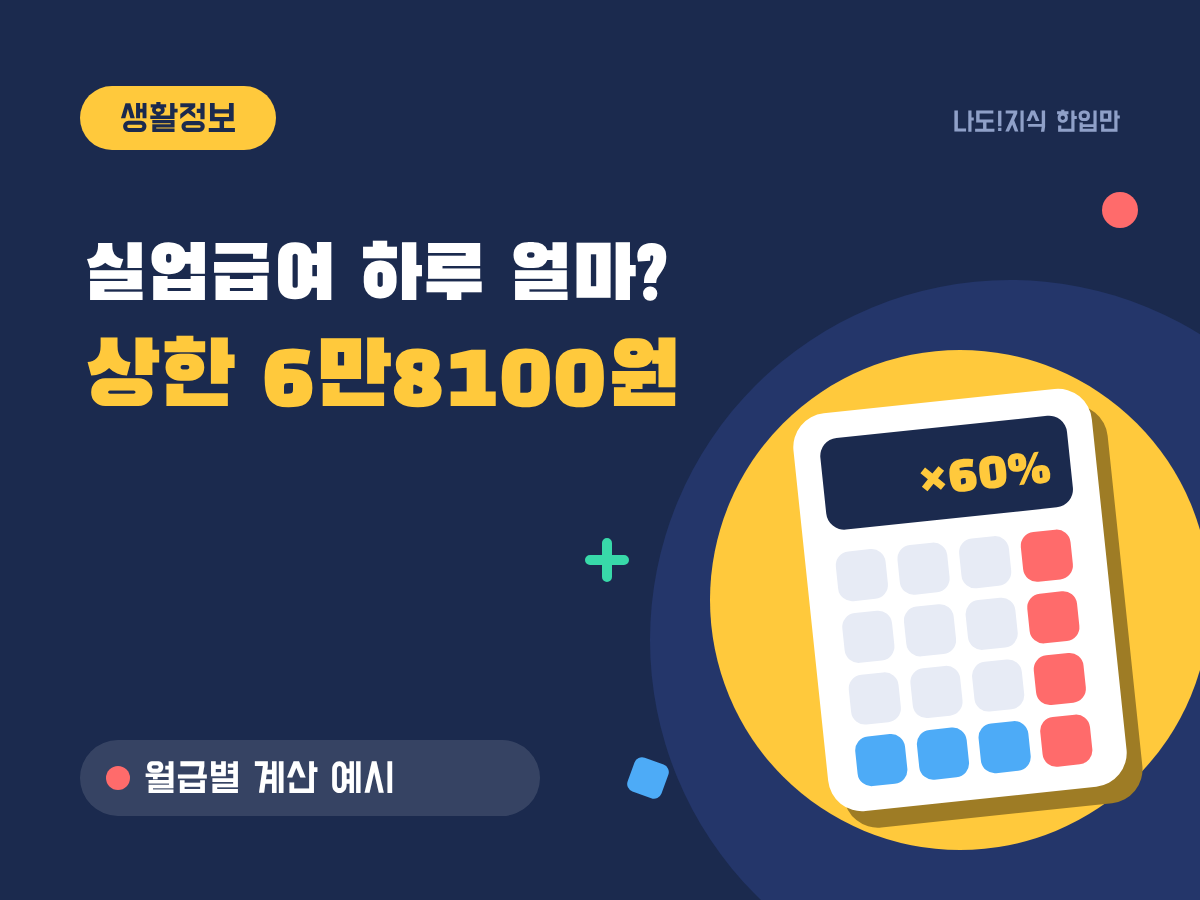
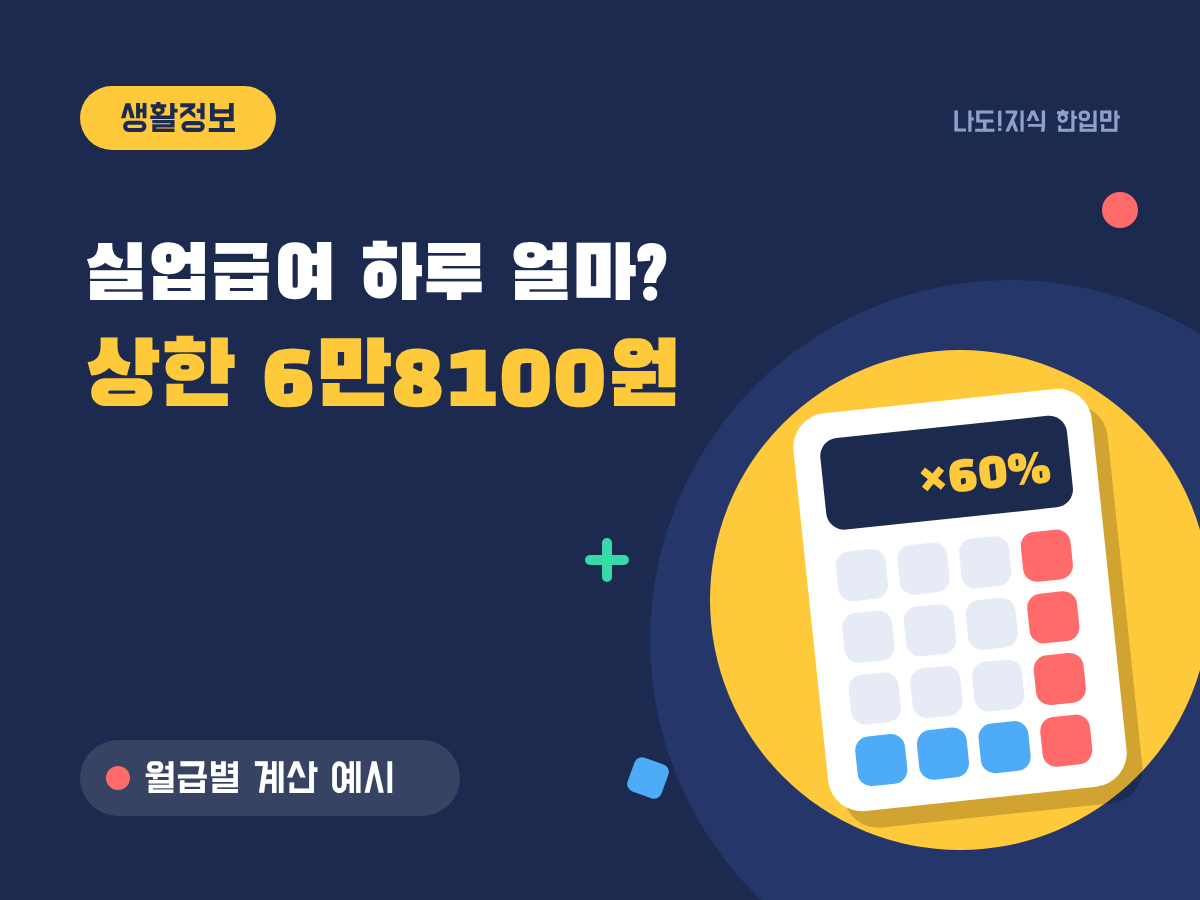
184편 피보나치 되돌림 계산법 초안(차트·지표 기법, gate_pass:true), 팝 스타일 그림 3장, 썸네일 메모 폭·그림자 보정
- pop_style: line_levels(가로 기준선 + 말풍선 차트) 추가, 말풍선 위치 지정
- 썸네일 그림 그림자를 바탕색과 무관한 반투명 검정으로, 메모 띠 폭을 글자 종류별로 계산
- 183편 썸네일 다시 생성

Claude-Session: https://claude.ai/code/session_01XKTwKe5xeJYdashdw41Tz7

Changed region(s): [[0.7092, 0.4667, 0.9558, 0.9333], [0.37, 0.8089, 0.4625, 0.9333]]

diff --git a/blog_automation/pop_style.py b/blog_automation/pop_style.py
@@ -8,7 +8,7 @@
     그림: calc(계산기) · calendar(달력) · coin(동전) · chart(막대+화살표). 비우면 life=달력, chart=chart.
 
 본문 그림: illust.py와 같은 이름의 함수.
-    from blog_automation.pop_style import bars, compare, steps
+    from blog_automation.pop_style import bars, compare, steps, line_levels
 """
 import subprocess
 import sys
@@ -46,7 +46,7 @@ def _render(path, svg_lines):
 # ---------------------------------------------------------------- 썸네일 그림
 def _art_calc(cx, cy, text):
     s = [f'<g transform="translate({cx-150},{cy-200}) rotate(-6 150 200)">',
-         f'<rect x="14" y="18" width="300" height="400" rx="34" fill="{_shade(YELLOW, .62)}"/>',
+         f'<rect x="14" y="18" width="300" height="400" rx="34" fill="#000000" fill-opacity="0.18"/>',
          f'<rect x="0" y="0" width="300" height="400" rx="34" fill="#ffffff"/>',
          f'<rect x="26" y="26" width="248" height="92" rx="18" fill="{NAVY}"/>',
          _t(254, 92, text or '₩', 50, YELLOW, TITLE_FONT, 'end')]
@@ -60,7 +60,7 @@ def _art_calc(cx, cy, text):
 
 def _art_calendar(cx, cy, text):
     s = [f'<g transform="translate({cx-190},{cy-170}) rotate(5 190 170)">',
-         f'<rect x="14" y="18" width="380" height="340" rx="34" fill="{_shade(YELLOW, .62)}"/>',
+         f'<rect x="14" y="18" width="380" height="340" rx="34" fill="#000000" fill-opacity="0.18"/>',
          '<rect x="0" y="0" width="380" height="340" rx="34" fill="#ffffff"/>',
          f'<path d="M0 34 a34 34 0 0 1 34 -34 h312 a34 34 0 0 1 34 34 v56 h-380 z" fill="{CORAL}"/>',
          f'<rect x="80" y="-18" width="20" height="44" rx="10" fill="{NAVY}"/><rect x="280" y="-18" width="20" height="44" rx="10" fill="{NAVY}"/>',
@@ -73,7 +73,7 @@ def _art_coin(cx, cy, text):
     s = []
     for i in range(5):
         y = cy + 150 - i * 38
-        s.append(f'<ellipse cx="{cx-60}" cy="{y+14}" rx="110" ry="36" fill="{_shade(YELLOW, .62)}"/>')
+        s.append(f'<ellipse cx="{cx-60}" cy="{y+14}" rx="110" ry="36" fill="#000000" fill-opacity="0.18"/>')
         s.append(f'<ellipse cx="{cx-60}" cy="{y}" rx="110" ry="36" fill="#ffd966"/>')
     s.append(f'<circle cx="{cx+90}" cy="{cy-90}" r="120" fill="#ffffff"/>')
     s.append(_t(cx + 90, cy - 50, text or '₩', 110 if len(text or '₩') < 3 else 64, NAVY, TITLE_FONT, 'middle'))
@@ -82,7 +82,7 @@ def _art_coin(cx, cy, text):
 
 def _art_chart(cx, cy, text):
     s = [f'<g transform="translate({cx-200},{cy-170})">',
-         f'<rect x="14" y="18" width="400" height="330" rx="34" fill="{_shade(YELLOW, .62)}"/>',
+         f'<rect x="14" y="18" width="400" height="330" rx="34" fill="#000000" fill-opacity="0.18"/>',
          '<rect x="0" y="0" width="400" height="330" rx="34" fill="#ffffff"/>']
     for i, h in enumerate((90, 150, 120, 210)):
         s.append(f'<rect x="{50 + i*80}" y="{290-h}" width="56" height="{h}" rx="12" fill="{(SKY, MINT, CORAL, NAVY)[i]}"/>')
@@ -117,7 +117,7 @@ def build_thumb(title_lines, track, note, text='', art=''):
     kind = art if art in ARTS else ('calendar' if track == 'life' else 'chart')
     s += ARTS[kind](960, 600, text)
     if note:
-        w = 100 + len(note) * 40
+        w = 90 + sum(36 if '\uac00' <= ch <= '\ud7a3' else 19 for ch in note)
         s.append(f'<rect x="80" y="{H-160}" width="{w}" height="76" rx="38" fill="#ffffff" fill-opacity="0.12"/>')
         s.append(f'<circle cx="118" cy="{H-122}" r="12" fill="{CORAL}"/>')
         s.append(_t(144, H - 108, note, 42, '#ffffff'))
@@ -197,6 +197,39 @@ def steps(name, title, sub, events, source, W=1200, H=700):
         s.append(_t(x, 470, big, 38, CORAL if hot else NAVY, TITLE_FONT, 'middle'))
         for j, ln in enumerate(desc.split('\n')):
             s.append(_t(x, 516 + j * 40, ln, 30, '#4a5470', anchor='middle'))
+    return _save(name, s, W, H, source)
+
+
+def line_levels(name, title, sub, series, levels, source, marks=(), W=1200, H=800, pad=None):
+    """series: 종가 목록. levels: [(가격, 이름, 색)] 가로 점선. marks: [(인덱스, 글자, 색[, dx, dy])] 점과 말풍선."""
+    x0, x1, y0, y1 = 150, W - 230, 220, H - 120
+    lo, hi = min(series), max(series)
+    pad = pad if pad is not None else (hi - lo) * 0.08
+    lo, hi = lo - pad, hi + pad
+    X = lambda i: x0 + (x1 - x0) * i / (len(series) - 1)
+    Y = lambda v: y1 - (y1 - y0) * (v - lo) / (hi - lo)
+    s = _frame(W, H, title, sub)
+    s.append(f'<rect x="{x0-20}" y="{y0-20}" width="{x1-x0+40}" height="{y1-y0+40}" rx="22" fill="#ffffff"/>')
+    for v, lab, c in levels:
+        s.append(f'<line x1="{x0}" y1="{Y(v):.0f}" x2="{x1}" y2="{Y(v):.0f}" stroke="{c}" stroke-width="4" stroke-dasharray="12 10"/>')
+        s.append(f'<rect x="{x1+24}" y="{Y(v)-20:.0f}" width="180" height="40" rx="20" fill="{c}"/>')
+        s.append(_t(x1 + 114, Y(v) + 10, lab, 26, '#ffffff', anchor='middle'))
+        s.append(_t(x0 - 30, Y(v) + 9, f'{v:,.0f}', 24, '#6b7590', anchor='end'))
+    pts = ' '.join(f'{X(i):.1f},{Y(v):.1f}' for i, v in enumerate(series))
+    s.append(f'<polyline points="{pts}" fill="none" stroke="{NAVY}" stroke-width="6" stroke-linejoin="round" stroke-linecap="round"/>')
+    for m in marks:
+        i, lab, c = m[:3]
+        x, y = X(i), Y(series[i])
+        s.append(f'<circle cx="{x:.0f}" cy="{y:.0f}" r="13" fill="{c}" stroke="#ffffff" stroke-width="4"/>')
+        w = 30 + len(lab) * 25
+        if len(m) > 3:  # (dx, dy): 말풍선 가운데를 점에서 이만큼 옮긴다
+            bx, by = x + m[3] - w / 2, y + m[4] - 23
+        else:
+            by = y - 70 if y > (y0 + y1) / 2 else y + 40
+            bx = min(max(x - w / 2, x0), x1 - w)
+        s.append(f'<line x1="{x:.0f}" y1="{y:.0f}" x2="{bx+w/2:.0f}" y2="{by+23:.0f}" stroke="{c}" stroke-width="3"/>')
+        s.append(f'<rect x="{bx:.0f}" y="{by:.0f}" width="{w:.0f}" height="46" rx="23" fill="{c}"/>')
+        s.append(_t(bx + w / 2, by + 32, lab, 27, '#ffffff', anchor='middle'))
     return _save(name, s, W, H, source)
 
 

diff --git a/assets/figures/fibonacci-retracement-calculation-data.py b/assets/figures/fibonacci-retracement-calculation-data.py
@@ -1,0 +1,25 @@
+"""피보나치 되돌림 예시용 가정 종가(실제 종목 아님). 1~41일 10,000→14,000 상승, 59일까지 되돌림, 이후 반등."""
+C = []
+for i in range(41):  # 상승: 저점 10,000(1일) → 고점 14,000(41일)
+    C.append(10000 + 100 * i + (0 if i in (0, 40) else (60 if i % 3 == 0 else -50 if i % 3 == 1 else 10)))
+for i in range(1, 19):  # 되돌림: 59일 12,040
+    C.append(14000 - 110 * i + (40 if i % 2 else -30) * (0 if i == 18 else 1))
+b = C[-1]
+for i in range(1, 17):  # 반등
+    C.append(b + 90 * i + (35 if i % 2 else -35))
+C = [round(x / 10) * 10 for x in C]
+N = len(C)
+HI, LO = max(C), min(C)
+RATIOS = [0.236, 0.382, 0.5, 0.618, 0.786]
+LEVELS = {r: HI - r * (HI - LO) for r in RATIOS}
+if __name__ == '__main__':
+    print(N, HI, C.index(HI) + 1, LO, C.index(LO) + 1)
+    pull = min(C[C.index(HI):]); print('pullback low', pull, C.index(pull) + 1, 'retr%', round((HI - pull) / (HI - LO) * 100, 1))
+    for r, v in LEVELS.items(): print(r, round(v))
+    # 각 선 ±1% 띠가 상승폭(저점~고점)을 얼마나 덮나
+    cover = set()
+    for v in LEVELS.values():
+        for p in range(LO, HI + 1, 10):
+            if abs(p - v) <= v * 0.01: cover.add(p)
+    print('cover', round(len(cover) / len(range(LO, HI + 1, 10)) * 100, 1))
+    print(C)

diff --git a/stock_drafts/fibonacci-retracement-calculation.md b/stock_drafts/fibonacci-retracement-calculation.md
@@ -1,0 +1,264 @@
+---
+keyword: 피보나치 되돌림
+title: 피보나치 되돌림 계산법, 38.2·50·61.8% 가격 구하는 공식과 한계
+slug: fibonacci-retracement-calculation
+track: chart
+thumb_style: pop
+thumb_title: 피보나치 되돌림|가격 계산법
+thumb_note: 38.2·50·61.8% 공식
+thumb_art: chart
+keyword_class: 자동화 가능
+publish_effort: oneclick
+monthly_search_volume: 890 (PC 320 / 모바일 570), "엘리어트 파동" 780, "추세선" 550
+gate1_pass: true (2026-11-04 실측)
+serp_check: |
+  [2026-11-04] 상위는 증권사·투자 커뮤니티·개인 블로그. 비율 목록과 HTS 그리는 법은 많지만,
+  가격을 직접 구하는 식과 예시 계산표, 되돌림 %와 고점 대비 하락률이 다르다는 점, 선이 많아 "맞아 보이는" 한계를 숫자로 보여 주는 글은 드묾.
+unique_asset: |
+  (a) 52,000→80,000원 예시 되돌림 가격표(상승·하락 양방향), (b) 비율 유도(0.618의 거듭제곱·제곱근, 50%는 피보나치 비율 아님) 카드,
+  (c) 되돌림 %와 고점 대비 하락률 비교표, (d) 가정 가격 차트에서 38.2% 뚫리고 50% 근처 반등 예시,
+  (e) 다섯 선 ±1% 띠가 상승폭의 30.2%를 덮는다는 계산(한계).
+primary_source: |
+  수학 정의(기관 출처 불필요): 1/1.618=0.618, 0.618²=0.382, 0.618³=0.236, √0.618=0.786. 가격 = 고점 − 비율×(고점−저점).
+  예시와 차트는 가정값(assets/figures/fibonacci-retracement-calculation-data.py).
+기준일: 2026-11-04
+tags: 피보나치 되돌림, 피보나치 비율, 피보나치 되돌림 계산, 0.618, 되돌림, 지지선
+gate_pass: true
+gate_pass_note: |
+  게이트1 890 통과. 게이트2 가격표·하락률 비교·덮는 비율 계산으로 정보이득. 게이트4 수학 정의와 가정값만 사용.
+self_check: |
+  [2026-11-04] 차트·지표 기법 편. 팝 스타일 그림 3장(line_levels 첫 사용). 매수·매도 권유·목표가 없음, 한계 절 포함.
+  내부 링크 3개(이동평균선·MDD 발행 글, 차트 보는법 허브).
+refresh_due: 2027-05-04
+refresh_reason: "서치 콘솔 검색어 반영, 엘리어트 파동·추세선 편이 생기면 서로 링크"
+figure_plan: "3장(팝): 1 가정 가격 차트 위 피보나치 선 / 2 계산 3단계 / 3 비율 유도 카드"
+---
+
+<p style="font-size:13px;color:#888;">최종 검토일: 2026-11-04</p>
+
+<p>피보나치 되돌림은 <mark>주가가 한 방향으로 크게 움직인 뒤, 그 움직임의 몇 %를 되돌렸는지</mark>를 23.6%·38.2%·50%·61.8%·78.6% 선으로 표시하는 방법이에요. 상승 뒤라면 가격은 <mark>고점 − 비율 × (고점 − 저점)</mark>으로 구해요.</p>
+
+<p>HTS에서 선을 그어 주긴 하지만, 식을 알면 어떤 고점·저점을 잡았는지에 따라 선이 얼마나 달라지는지 바로 보여요. 계산법, 비율이 나온 곳, 그리고 이 선을 믿기 어려운 이유까지 숫자로 볼게요.</p>
+
+<div style="background:#eef3ff;border:2px solid #1b2a4e;border-radius:10px;padding:16px 20px;margin:24px 0;">
+  <strong style="color:#1b2a4e;font-size:18px;">📐 한 줄 공식</strong>
+  <ul style="margin:10px 0 0 0;padding-left:20px;line-height:1.9;">
+    <li><b>상승 뒤 되돌림:</b> 고점 − 비율 × (고점 − 저점)</li>
+    <li><b>하락 뒤 반등:</b> 저점 + 비율 × (고점 − 저점)</li>
+    <li><b>예:</b> 52,000원 → 80,000원 상승의 38.2% 되돌림 = 80,000 − 0.382 × 28,000 = <b>69,304원</b></li>
+  </ul>
+</div>
+
+<h2 style="border-left:6px solid #1b2a4e;padding-left:12px;margin-top:36px;">목차</h2>
+<ol style="line-height:1.9;">
+  <li><a href="#sec-1" style="color:inherit;text-decoration:underline;text-underline-offset:3px;">피보나치 되돌림 뜻과 선 다섯 개</a></li>
+  <li><a href="#sec-2" style="color:inherit;text-decoration:underline;text-underline-offset:3px;">되돌림 가격 계산법 3단계</a></li>
+  <li><a href="#sec-3" style="color:inherit;text-decoration:underline;text-underline-offset:3px;">38.2·61.8%는 어디서 나왔나</a></li>
+  <li><a href="#sec-4" style="color:inherit;text-decoration:underline;text-underline-offset:3px;">되돌림 %와 고점 대비 하락률은 달라요</a></li>
+  <li><a href="#sec-5" style="color:inherit;text-decoration:underline;text-underline-offset:3px;">가정 차트로 본 예시</a></li>
+  <li><a href="#sec-6" style="color:inherit;text-decoration:underline;text-underline-offset:3px;">한계: 선이 많으면 늘 맞아 보여요</a></li>
+  <li><a href="#sec-7" style="color:inherit;text-decoration:underline;text-underline-offset:3px;">피보나치 되돌림 Q&amp;A 5개</a></li>
+</ol>
+
+<h2 id="sec-1" style="scroll-margin-top:72px;border-left:6px solid #1b2a4e;padding-left:12px;margin-top:36px;">피보나치 되돌림 뜻과 선 다섯 개</h2>
+
+<p>주가는 오르다가도 중간중간 쉬면서 일부를 되돌려요. 피보나치 되돌림은 그 "쉬는 자리"를 미리 몇 군데 표시해 두는 도구예요. 기준이 되는 저점과 고점을 하나씩 고르면, 그 사이에 다섯 개의 가로선이 그어져요.</p>
+
+<table style="width:100%;border-collapse:collapse;margin:16px 0;">
+  <thead>
+    <tr style="background:#1b2a4e;color:#fff;"><th style="border:1px solid #ddd;padding:8px;">선</th><th style="border:1px solid #ddd;padding:8px;">뜻(상승 뒤)</th><th style="border:1px solid #ddd;padding:8px;">52,000→80,000원 예시</th></tr>
+  </thead>
+  <tbody>
+    <tr><td style="border:1px solid #ddd;padding:8px;">23.6%</td><td style="border:1px solid #ddd;padding:8px;">오른 폭의 4분의 1 정도만 내줌</td><td style="border:1px solid #ddd;padding:8px;">73,392원</td></tr>
+    <tr><td style="border:1px solid #ddd;padding:8px;">38.2%</td><td style="border:1px solid #ddd;padding:8px;">얕은 되돌림</td><td style="border:1px solid #ddd;padding:8px;"><mark>69,304원</mark></td></tr>
+    <tr><td style="border:1px solid #ddd;padding:8px;">50%</td><td style="border:1px solid #ddd;padding:8px;">오른 폭의 절반</td><td style="border:1px solid #ddd;padding:8px;"><mark>66,000원</mark></td></tr>
+    <tr><td style="border:1px solid #ddd;padding:8px;">61.8%</td><td style="border:1px solid #ddd;padding:8px;">깊은 되돌림</td><td style="border:1px solid #ddd;padding:8px;"><mark>62,696원</mark></td></tr>
+    <tr><td style="border:1px solid #ddd;padding:8px;">78.6%</td><td style="border:1px solid #ddd;padding:8px;">오른 폭 대부분을 내줌</td><td style="border:1px solid #ddd;padding:8px;">57,992원</td></tr>
+  </tbody>
+</table>
+
+<p>반대로 하락 뒤 반등을 볼 때는 저점에서 위로 더해요. 80,000원에서 52,000원으로 내렸다면 38.2% 반등선은 52,000 + 0.382 × 28,000 = <b>62,696원</b>, 61.8% 반등선은 <b>69,304원</b>이에요. 같은 두 가격이라도 방향에 따라 38.2%와 61.8%의 자리가 서로 바뀌어요.</p>
+
+<h2 id="sec-2" style="scroll-margin-top:72px;border-left:6px solid #1b2a4e;padding-left:12px;margin-top:36px;">되돌림 가격 계산법 3단계</h2>
+
+<figure style="margin:24px 0;"><img src="https://raw.githubusercontent.com/leoleo0813/blog-automation/main/assets/figures/fibonacci-retracement-calculation-2.png" alt="피보나치 되돌림 가격 계산 3단계: 52,000원에서 80,000원 상승, 폭 28,000원 × 0.382 = 10,696원, 80,000 − 10,696 = 69,304원" style="max-width:100%;"><figcaption style="font-size:13px;color:#888;">비율만 바꿔 넣으면 다섯 선이 다 나와요.</figcaption></figure>
+
+<ol style="line-height:1.9;">
+  <li><b>저점과 고점 고르기:</b> 하나의 큰 움직임의 시작과 끝을 골라요. 보통 눈에 띄는 최저가와 최고가를 쓰고, 종가를 쓸지 장중 고가·저가를 쓸지도 정해야 해요.</li>
+  <li><b>폭 × 비율:</b> 80,000 − 52,000 = 28,000원에 비율을 곱해요. 38.2%면 10,696원이에요.</li>
+  <li><b>고점에서 빼기:</b> 80,000 − 10,696 = 69,304원. 하락 뒤 반등이면 저점에 더해요.</li>
+</ol>
+
+<p>1단계가 가장 중요해요. 저점을 52,000원이 아니라 60,000원으로 잡으면 폭이 20,000원이 돼서 38.2% 선은 72,360원으로 3,000원 넘게 올라가요. 같은 차트라도 사람마다 선이 다른 이유예요.</p>
+
+<h2 id="sec-3" style="scroll-margin-top:72px;border-left:6px solid #1b2a4e;padding-left:12px;margin-top:36px;">38.2·61.8%는 어디서 나왔나</h2>
+
+<figure style="margin:24px 0;"><img src="https://raw.githubusercontent.com/leoleo0813/blog-automation/main/assets/figures/fibonacci-retracement-calculation-3.png" alt="피보나치 비율 유도: 61.8% = 1 ÷ 1.618, 38.2% = 0.618 × 0.618, 23.6% = 0.618 × 0.618 × 0.618" style="max-width:100%;"><figcaption style="font-size:13px;color:#888;">세 비율은 모두 0.618에서 나와요.</figcaption></figure>
+
+<p>피보나치 수열은 1, 1, 2, 3, 5, 8, 13, 21, 34, 55, 89…처럼 앞의 두 수를 더해 다음 수를 만들어요. 뒤로 갈수록 이웃한 두 수의 비율이 <b>1.618</b>(황금비)에 가까워지고, 그 역수가 <b>0.618</b>이에요(예: 55 ÷ 89 = 0.618).</p>
+
+<ul style="line-height:1.9;">
+  <li><b>61.8%</b> = 1 ÷ 1.618</li>
+  <li><b>38.2%</b> = 0.618 × 0.618 (= 1 − 0.618이기도 해요)</li>
+  <li><b>23.6%</b> = 0.618 × 0.618 × 0.618</li>
+  <li><b>78.6%</b> = √0.618</li>
+  <li><b>50%</b>는 피보나치 수열에서 나온 비율이 아니에요. "절반쯤 되돌린다"는 관행 때문에 같이 그려요.</li>
+</ul>
+
+<p>즉 비율 자체는 수학적으로 깔끔하지만, 주가가 왜 이 비율에서 멈춰야 하는지에 대한 근거는 아니에요. 많은 사람이 같은 선을 보고 주문을 넣기 때문에 가끔 그 근처에서 멈추는 일이 생긴다는 설명이 더 현실적이에요.</p>
+
+<h2 id="sec-4" style="scroll-margin-top:72px;border-left:6px solid #1b2a4e;padding-left:12px;margin-top:36px;">되돌림 %와 고점 대비 하락률은 달라요</h2>
+
+<p>"50% 되돌림"을 "고점에서 50% 빠졌다"로 읽으면 안 돼요. 되돌림 %는 <b>오른 폭</b> 기준이고, 하락률은 <b>고점 가격</b> 기준이에요. 계좌에서 실제로 느끼는 손실은 하락률 쪽이에요(고점 대비 하락률은 <a href="https://sensitiveboss3.tistory.com/entry/max-drawdown-mdd-recovery-rate" target="_blank" rel="noopener">MDD 뜻과 회복 상승률</a> 글에서 자세히 다뤘어요).</p>
+
+<table style="width:100%;border-collapse:collapse;margin:16px 0;">
+  <thead>
+    <tr style="background:#1b2a4e;color:#fff;"><th style="border:1px solid #ddd;padding:8px;">되돌림</th><th style="border:1px solid #ddd;padding:8px;">52,000→80,000원 가격</th><th style="border:1px solid #ddd;padding:8px;">고점 대비 하락률</th></tr>
+  </thead>
+  <tbody>
+    <tr><td style="border:1px solid #ddd;padding:8px;">38.2%</td><td style="border:1px solid #ddd;padding:8px;">69,304원</td><td style="border:1px solid #ddd;padding:8px;"><mark>−13.4%</mark></td></tr>
+    <tr><td style="border:1px solid #ddd;padding:8px;">50%</td><td style="border:1px solid #ddd;padding:8px;">66,000원</td><td style="border:1px solid #ddd;padding:8px;"><mark>−17.5%</mark></td></tr>
+    <tr><td style="border:1px solid #ddd;padding:8px;">61.8%</td><td style="border:1px solid #ddd;padding:8px;">62,696원</td><td style="border:1px solid #ddd;padding:8px;"><mark>−21.6%</mark></td></tr>
+  </tbody>
+</table>
+
+<p>하락률 = 되돌림 비율 × (고점 − 저점) ÷ 고점이라서, 앞선 상승이 클수록 같은 50% 되돌림이라도 하락률이 커져요.</p>
+
+<h2 id="sec-5" style="scroll-margin-top:72px;border-left:6px solid #1b2a4e;padding-left:12px;margin-top:36px;">가정 차트로 본 예시</h2>
+
+<figure style="margin:24px 0;"><img src="https://raw.githubusercontent.com/leoleo0813/blog-automation/main/assets/figures/fibonacci-retracement-calculation-1.png" alt="가정 가격 차트: 저점 10,000에서 고점 14,000까지 오른 뒤 38.2% 선 12,472를 뚫고 50% 선 12,000 근처 12,020에서 반등" style="max-width:100%;"><figcaption style="font-size:13px;color:#888;">실제 종목이 아닌 가정 가격이에요. 38.2% 선은 그냥 지나쳤어요.</figcaption></figure>
+
+<p>가정 가격으로 41일 동안 10,000에서 14,000까지 오른 뒤 되돌린 차트예요. 선은 13,056(23.6%), 12,472(38.2%), 12,000(50%), 11,528(61.8%), 10,856(78.6%)이에요.</p>
+
+<ul style="line-height:1.9;">
+  <li>되돌림은 <b>38.2% 선을 멈추지 않고 지나갔어요.</b></li>
+  <li>59일째 <b>12,020</b>에서 바닥을 찍고 반등했는데, 되돌림 비율로는 <b>49.5%</b>예요.</li>
+  <li>끝나고 보면 "50%에서 정확히 반등"처럼 보이지만, 38.2%를 지나던 시점에는 50%에서 멈출지, 61.8%까지 갈지 알 수 없었어요.</li>
+</ul>
+
+<p>되돌림 구간에서 평단을 낮추려고 더 사는 경우가 많은데, 그때 계산은 <a href="https://sensitiveboss3.tistory.com/entry/averaging-down-average-price-calculation" target="_blank" rel="noopener">물타기 평단가 계산</a> 글을 참고하면 돼요. 다른 지표와 함께 보는 순서는 <a href="https://sensitiveboss3.tistory.com/entry/stock-chart-reading-guide" target="_blank" rel="noopener">주식 차트 보는법</a>에 정리했어요.</p>
+
+<h2 id="sec-6" style="scroll-margin-top:72px;border-left:6px solid #1b2a4e;padding-left:12px;margin-top:36px;">한계: 선이 많으면 늘 맞아 보여요</h2>
+
+<p>위 예시에서 다섯 선 각각의 위아래 ±1%를 "선 근처"로 치면, 그 띠들이 저점~고점 사이 가격의 <mark>30.2%</mark>를 덮어요. 아무 자리에서나 멈춰도 열에 세 번은 "피보나치 선 근처에서 멈췄다"고 말할 수 있다는 뜻이에요.</p>
+
+<ul style="line-height:1.9;">
+  <li><b>고점·저점 선택이 주관적이에요.</b> 기준을 바꾸면 선이 수천 원씩 움직여요(2단계 예시).</li>
+  <li><b>어느 선에서 멈출지는 미리 알 수 없어요.</b> 다섯 선 중 하나는 대부분 "맞은" 것처럼 보이게 돼요.</li>
+  <li><b>방향을 알려 주지 않아요.</b> 선은 가격 자리일 뿐, 반등할지 더 내릴지는 말해 주지 않아요.</li>
+</ul>
+
+<p>그래서 피보나치 선은 단독 신호보다 <b>다른 근거와 겹치는지 확인하는 보조 자</b>로 쓰는 편이 무난해요. 예를 들어 61.8% 선이 <a href="https://sensitiveboss3.tistory.com/entry/moving-average-5-20-day-cross" target="_blank" rel="noopener">이동평균선</a>이나 예전 매물이 몰린 가격과 겹친다면 그 자리를 조금 더 눈여겨보는 식이에요. 그래도 그 자리에서 멈춘다는 보장은 없어요.</p>
+
+<h2 id="sec-7" style="scroll-margin-top:72px;border-left:6px solid #1b2a4e;padding-left:12px;margin-top:36px;">피보나치 되돌림 Q&amp;A 5개</h2>
+
+<details style="border:1px solid #ddd;border-radius:8px;padding:12px 16px;margin:10px 0;">
+  <summary style="font-weight:bold;cursor:pointer;">피보나치 되돌림 가격은 어떻게 계산하나요</summary>
+  <p style="margin:10px 0 0 0;">상승 뒤라면 고점 − 비율 × (고점 − 저점)이에요. 52,000원에서 80,000원으로 올랐다면 38.2% 선은 80,000 − 0.382 × 28,000 = 69,304원이에요. 하락 뒤 반등은 저점 + 비율 × (고점 − 저점)으로 구해요.</p>
+</details>
+
+<details style="border:1px solid #ddd;border-radius:8px;padding:12px 16px;margin:10px 0;">
+  <summary style="font-weight:bold;cursor:pointer;">0.618, 0.382는 어디서 나온 숫자인가요</summary>
+  <p style="margin:10px 0 0 0;">피보나치 수열에서 이웃한 두 수의 비율이 가까워지는 황금비 1.618의 역수가 0.618이에요. 0.382는 0.618을 두 번, 0.236은 세 번 곱한 값이고, 0.786은 0.618의 제곱근이에요. 50%는 피보나치 비율이 아니라 관행으로 함께 쓰는 선이에요.</p>
+</details>
+
+<details style="border:1px solid #ddd;border-radius:8px;padding:12px 16px;margin:10px 0;">
+  <summary style="font-weight:bold;cursor:pointer;">50% 되돌림이면 주가가 50% 빠진 건가요</summary>
+  <p style="margin:10px 0 0 0;">아니에요. 되돌림 %는 오른 폭 기준이에요. 52,000원에서 80,000원으로 오른 뒤 50% 되돌리면 66,000원이고, 고점 대비 하락률은 17.5%예요.</p>
+</details>
+
+<details style="border:1px solid #ddd;border-radius:8px;padding:12px 16px;margin:10px 0;">
+  <summary style="font-weight:bold;cursor:pointer;">저점과 고점은 어떤 걸 골라야 하나요</summary>
+  <p style="margin:10px 0 0 0;">정해진 규칙은 없고, 보통 하나의 뚜렷한 상승이나 하락의 시작과 끝을 골라요. 기준을 바꾸면 선이 크게 움직이기 때문에, 어떤 고점·저점과 종가·장중가 중 무엇을 썼는지 스스로 기록해 두는 게 좋아요.</p>
+</details>
+
+<details style="border:1px solid #ddd;border-radius:8px;padding:12px 16px;margin:10px 0;">
+  <summary style="font-weight:bold;cursor:pointer;">피보나치 선에서 반등하면 사도 되나요</summary>
+  <p style="margin:10px 0 0 0;">피보나치 선은 가격 자리를 표시할 뿐 반등을 보장하지 않아요. 다섯 선의 ±1% 띠만으로도 상승폭의 약 30%가 덮여서 우연히 맞아 보이기 쉬워요. 다른 근거와 함께 보는 보조 도구로 쓰는 편이 무난하고, 매수·매도 판단은 본인 몫이에요.</p>
+</details>
+
+<div style="border-top:1px solid #ddd;margin-top:32px;padding-top:12px;font-size:13px;color:#888;">
+  참고:
+  <ul style="margin:6px 0 0 0;padding-left:20px;">
+    <li>비율은 수학 정의로 계산했어요: 1 ÷ 1.618 = 0.618, 0.618² = 0.382, 0.618³ = 0.236, √0.618 = 0.786.</li>
+    <li>예시 가격과 차트는 계산을 보여 주기 위한 가정값이에요(실제 종목 아님).</li>
+  </ul>
+  기준일: 2026년 11월 4일.
+</div>
+
+<p style="font-size:13px;color:#777;margin-top:16px;line-height:1.8;">
+정보 제공을 목적으로 쓴 글이며 특정 종목의 매수·매도를 권유하지 않아요. 예시는 계산을 보여 주기 위한 가정값이고, 투자 판단과 그 결과에 대한 책임은 투자자 본인에게 있어요.
+</p>
+
+<script type="application/ld+json">
+{
+  "@context": "https://schema.org",
+  "@type": "Article",
+  "headline": "피보나치 되돌림 계산법, 38.2·50·61.8% 가격 구하는 공식과 한계",
+  "description": "피보나치 되돌림 가격 공식(고점 − 비율 × 폭)과 52,000→80,000원 예시표, 0.618·0.382·0.236 비율의 유도, 되돌림 %와 고점 대비 하락률 차이, 가정 차트 예시와 선이 많아 맞아 보이는 한계를 정리했어요.",
+  "author": {
+    "@type": "Person",
+    "name": "센시티브보스"
+  },
+  "publisher": {
+    "@type": "Organization",
+    "name": "센시티브보스"
+  },
+  "datePublished": "2026-11-04",
+  "dateModified": "2026-11-04",
+  "image": "https://raw.githubusercontent.com/leoleo0813/blog-automation/main/assets/figures/fibonacci-retracement-calculation-2.png",
+  "mainEntityOfPage": {
+    "@type": "WebPage",
+    "@id": "https://sensitiveboss3.tistory.com/entry/fibonacci-retracement-calculation"
+  }
+}
+</script>
+
+<script type="application/ld+json">
+{
+  "@context": "https://schema.org",
+  "@type": "FAQPage",
+  "mainEntity": [
+    {
+      "@type": "Question",
+      "name": "피보나치 되돌림 가격은 어떻게 계산하나요",
+      "acceptedAnswer": {
+        "@type": "Answer",
+        "text": "상승 뒤라면 고점 − 비율 × (고점 − 저점)이에요. 52,000원에서 80,000원으로 올랐다면 38.2% 선은 80,000 − 0.382 × 28,000 = 69,304원이에요. 하락 뒤 반등은 저점 + 비율 × (고점 − 저점)으로 구해요."
+      }
+    },
+    {
+      "@type": "Question",
+      "name": "0.618, 0.382는 어디서 나온 숫자인가요",
+      "acceptedAnswer": {
+        "@type": "Answer",
+        "text": "피보나치 수열에서 이웃한 두 수의 비율이 가까워지는 황금비 1.618의 역수가 0.618이에요. 0.382는 0.618을 두 번, 0.236은 세 번 곱한 값이고, 0.786은 0.618의 제곱근이에요. 50%는 피보나치 비율이 아니라 관행으로 함께 쓰는 선이에요."
+      }
+    },
+    {
+      "@type": "Question",
+      "name": "50% 되돌림이면 주가가 50% 빠진 건가요",
+      "acceptedAnswer": {
+        "@type": "Answer",
+        "text": "아니에요. 되돌림 %는 오른 폭 기준이에요. 52,000원에서 80,000원으로 오른 뒤 50% 되돌리면 66,000원이고, 고점 대비 하락률은 17.5%예요."
+      }
+    },
+    {
+      "@type": "Question",
+      "name": "저점과 고점은 어떤 걸 골라야 하나요",
+      "acceptedAnswer": {
+        "@type": "Answer",
+        "text": "정해진 규칙은 없고, 보통 하나의 뚜렷한 상승이나 하락의 시작과 끝을 골라요. 기준을 바꾸면 선이 크게 움직이기 때문에, 어떤 고점·저점과 종가·장중가 중 무엇을 썼는지 스스로 기록해 두는 게 좋아요."
+      }
+    },
+    {
+      "@type": "Question",
+      "name": "피보나치 선에서 반등하면 사도 되나요",
+      "acceptedAnswer": {
+        "@type": "Answer",
+        "text": "피보나치 선은 가격 자리를 표시할 뿐 반등을 보장하지 않아요. 다섯 선의 ±1% 띠만으로도 상승폭의 약 30%가 덮여서 우연히 맞아 보이기 쉬워요. 다른 근거와 함께 보는 보조 도구로 쓰는 편이 무난하고, 매수·매도 판단은 본인 몫이에요."
+      }
+    }
+  ]
+}
+</script>
